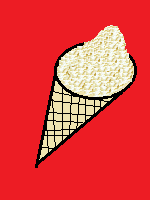
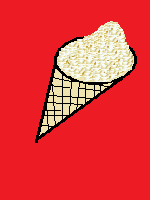
vip

Changed region(s): [[0.2133, 0.09, 0.9333, 0.84]]

diff --git a/style.css b/style.css
@@ -118,6 +118,8 @@ body{
 }
 
 .popcorn{
+	position: absolute;
+	
 	height: 200px;
 	width: 150px;
 	
@@ -128,31 +130,85 @@ body{
 }
 
 .soda{
+	position: absolute;
+	
 	height: 200px;
 	width: 150px;
 	
-	top: 200px;
+	top: 202px;
 	left: 0;
 	
 	background-image: url(soda.png);
 }
 
 .icecream{
+	position: absolute;
+	
 	height: 200px;
 	width: 150px;
 	
-	top: 400px;
+	top: 404px;
 	left: 0;
 	
 	background-image: url(icecream.png);
 }
 
 .vip{
+	position: absolute;
+	
 	height: 200px;
 	width: 150px;
 	
-	top: 600px;
+	top: 606px;
 	left: 0;
 	
 	background-image: url('vip.png');
+}
+
+.prixp{
+	position: absolute;
+	
+	height : 30px;
+	width: 150px;
+	
+	top: 170px;
+	left: 0;
+	
+	border-bottom: 2px solid #000;
+}
+
+.prixs{
+	position: absolute;
+	
+	height : 30px;
+	width: 150px;
+	
+	top: 370px;
+	left: 0;
+
+	border-bottom: 2px solid #000;
+}
+
+.prixi{
+	position: absolute;
+	
+	height : 30px;
+	width: 150px;
+	
+	top: 570px;
+	left: 0;
+	
+	border-bottom: 2px solid #000;
+}
+
+.prixv{
+	position: absolute;
+	
+	height : 30px;
+	width: 150px;
+	
+	top: 770px;
+	left: 0;
+	
+	border-bottom: 2px solid #000;
 }

diff --git a/index.html b/index.html
@@ -28,9 +28,13 @@
 		</div>
 		<div id="bonuses">
 			<div class="popcorn"></div>
+			<div class="prixp"></div>
 			<div class="soda"></div>
+			<div class="prixs"></div>
 			<div class="icecream"></div>
+			<div class="prixi"></div>
 			<div class="vip"></div>
+			<div class="prixv"></div>
 		</div>
 	</body>
 	<script type="text/javascript" src="app.js"></script>
